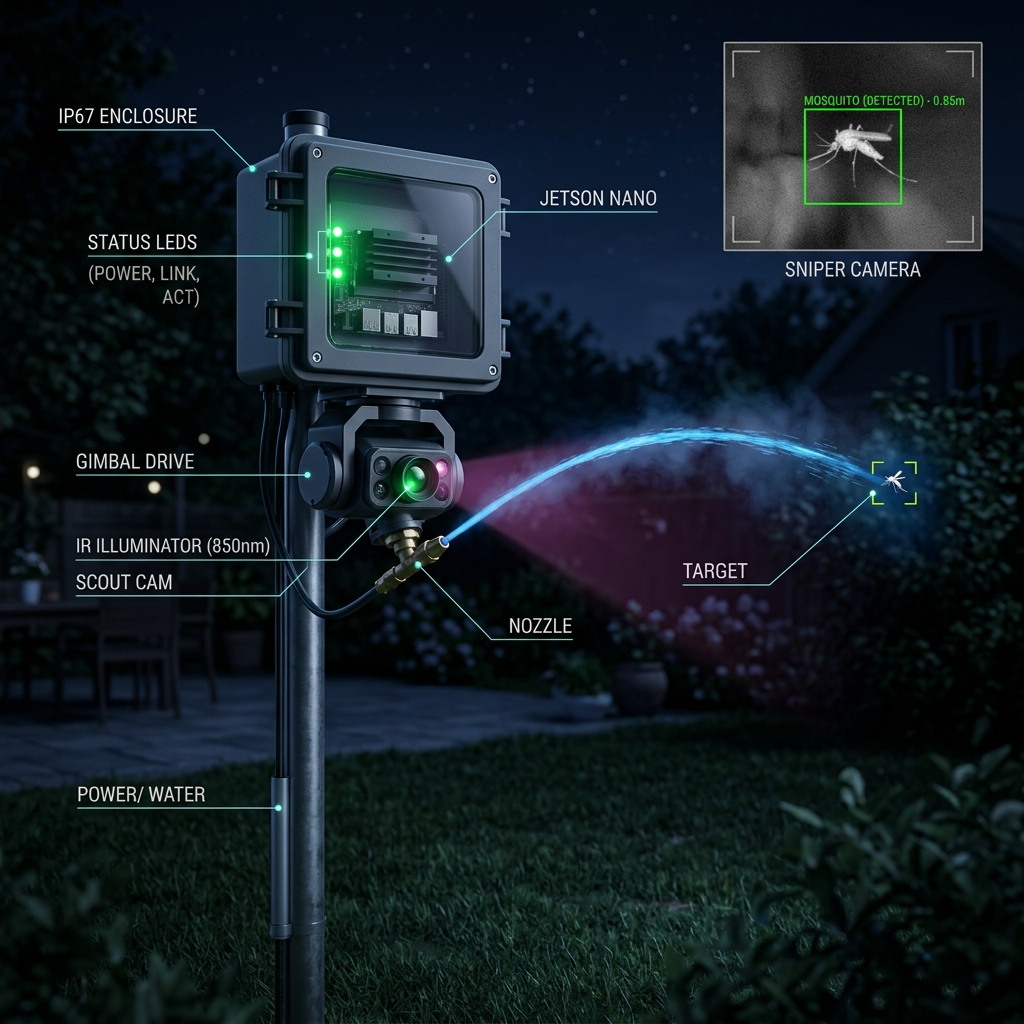
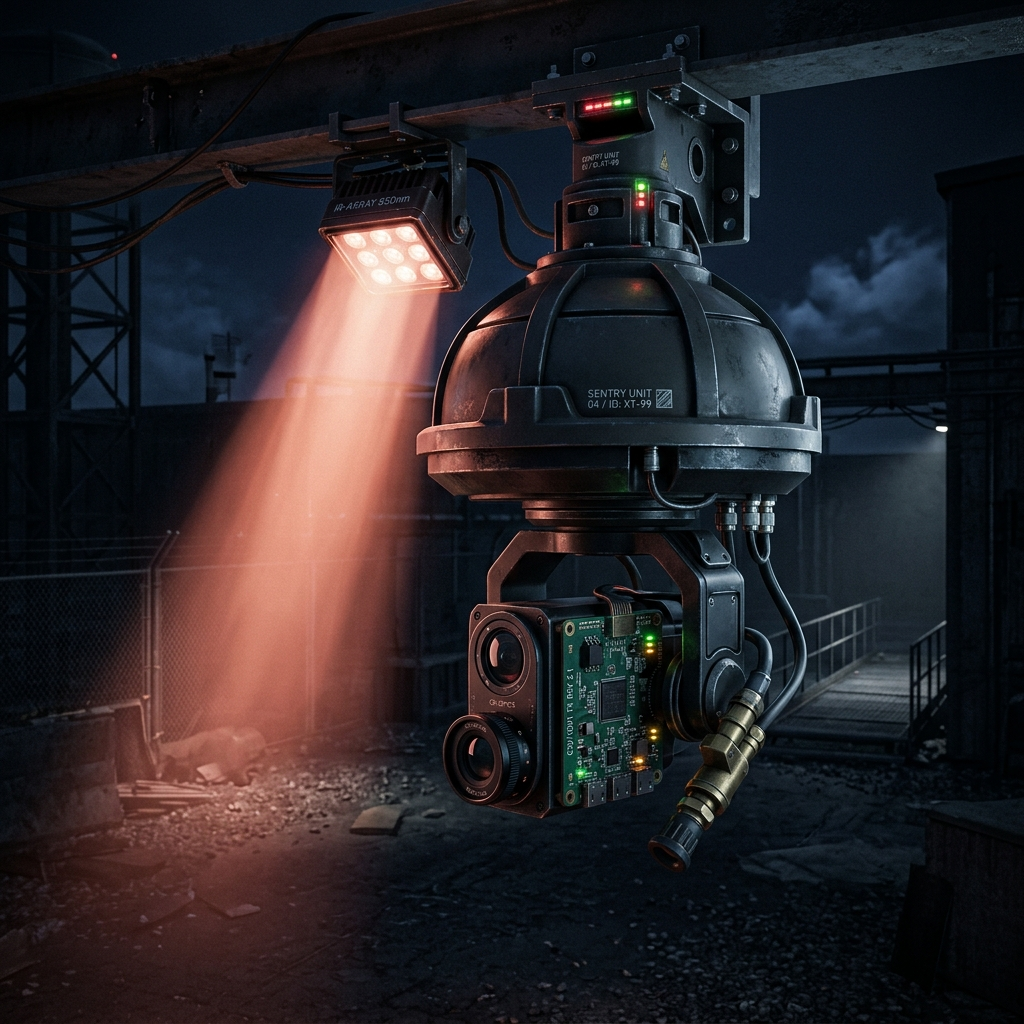
[DIAGRAM] Regenerate gimbal payload and night operation views
- Updated gimbal_payload_v3.png with CSI-to-HDMI TX board and FPV cable routing
- Updated night_operation_view.png with volumetric IR beam lighting
- Archived old image versions
- Logged changes to HISTORY.md

diff --git a/docs/HISTORY.md b/docs/HISTORY.md
@@ -204,3 +204,8 @@
 - **[CODE]** `gimbal_controller.py`: Added `downward_bias_deg` to `sweep()` to paint the downward-sloping ground plane during Stream-and-Sweep.
 - **[SPEC]** `HW-001` and `SW-001`: Updated to reflect inverted dome orientation, revised physical stacking, and linear trajectory physics.
 - **[DIAGRAM]** Regenerated 6 core architectural diagrams to reflect the inverted dome and linear trajectory physics. Moved out-of-date images to `diagrams/images/archive/`.
+
+## 2026-05-16 — GIMBAL PAYLOAD AND NIGHT OPERATION DIAGRAMS
+- **[DIAGRAM]** Regenerated `gimbal_payload_v3.png` to highly detailed 3D CAD style, correctly showing the inverted Arducam IMX219, CSI-to-HDMI TX board, FPV HDMI cable, LiDAR, and water nozzle.
+- **[DIAGRAM]** Regenerated `night_operation_view.png` to depict the inverted dome turret in low-light conditions with the active 850nm IR illuminator casting a volumetric beam.
+- **[NOTE]** Old diagram versions moved to `diagrams/images/archive/`.
